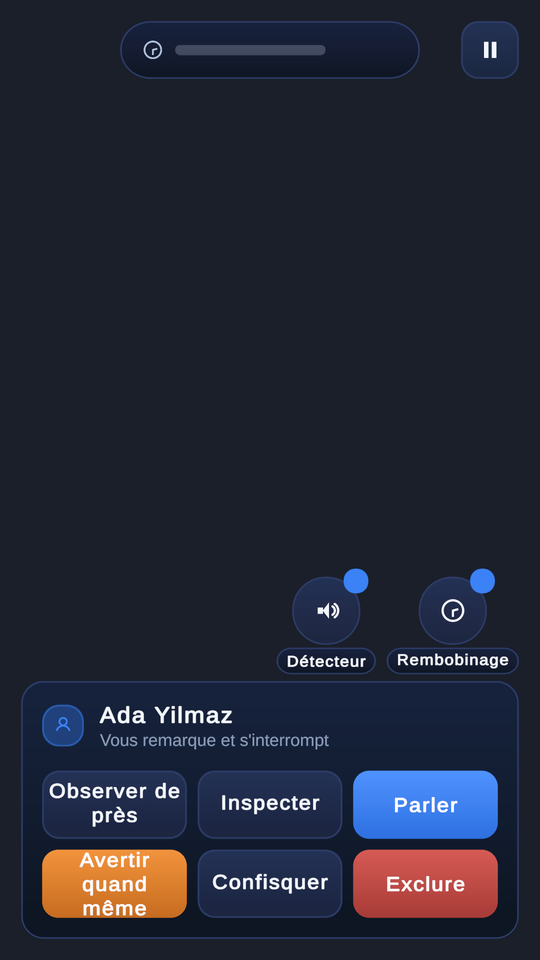
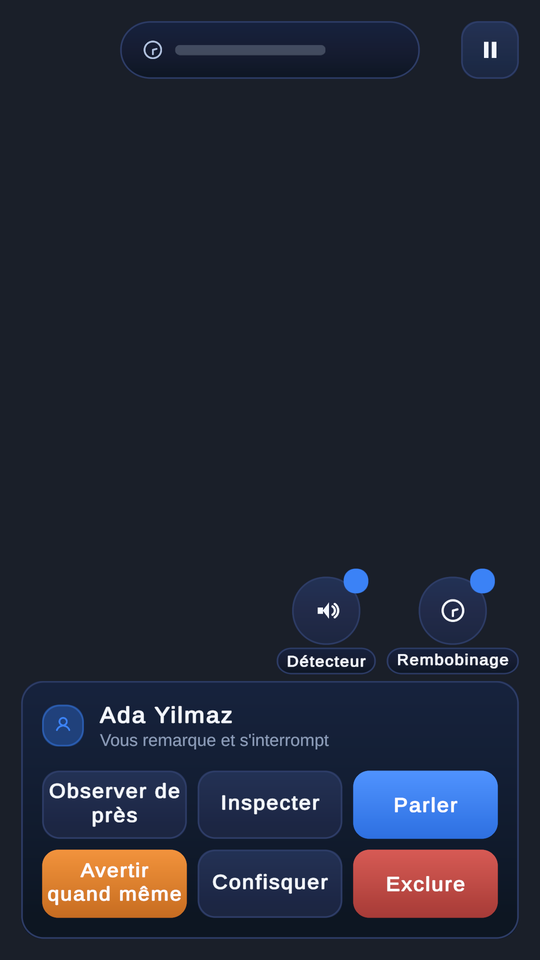
Localization: French Warn label on two lines, Turkish Settings and the language picker

Changed region(s): [[0.0889, 0.875, 0.3259, 0.9688]]

diff --git a/localization/index.html b/localization/index.html
@@ -171,9 +171,10 @@ td .alt { color: var(--muted); }
 
   <section id="screens">
     <div class="section-head">
-      <h2>Screens in Russian, French and Japanese</h2>
-      <p class="muted">The three languages that push the layout hardest: long Russian words, long French phrases and
-        Japanese script. Every word on these screens comes from the string tables.</p>
+      <h2>Screens in Russian, French, Japanese and Turkish</h2>
+      <p class="muted">Russian, French and Japanese push the layout hardest: long Russian words, long French phrases and
+        Japanese script. Turkish Settings shows its dotted and dotless i. Every word on these screens comes from the
+        string tables.</p>
     </div>
     <div class="group">
       <h3>Settings</h3>
@@ -186,6 +187,9 @@ td .alt { color: var(--muted); }
         <figure><img src="img/ja-settings.png" width="540" height="960" alt="Settings screen in Japanese: サウンド, 全体の音量, 効果音, 表示とヘルプ, テーマ, ダーク, ライト, 自動, 言語 日本語, 文字サイズ 標準, ヒント オン, 動きを減らす オフ">
           <figcaption><b>日本語.</b> 「自動」 in Japanese corner brackets. Kana and kanji come from the Noto Sans JP
             fallback.</figcaption></figure>
+        <figure><img src="img/tr-settings.png" width="540" height="960" alt="Settings screen in Turkish: Ayarlar, Ses, Genel ses düzeyi, Efektler, Görünüm ve yardım, Tema, Koyu, Açık, Otomatik, Dil Türkçe, Yazı boyutu Normal, İpuçları Açık, Hareketi azalt Kapalı">
+          <figcaption><b>Türkçe.</b> Dotted and dotless i side by side in İpuçları, Kapalı and Açık, all drawn from the
+            dynamic Liberation Sans fallback font.</figcaption></figure>
       </div>
     </div>
     <div class="group">
@@ -221,15 +225,17 @@ td .alt { color: var(--muted); }
     <div class="section-head">
       <h2>Exam action rows</h2>
       <p class="muted">The six actions under a selected student. A row goes compact, dropping its icons and letting
-        labels wrap, only when one of its labels cannot fit at the minimum text size. Rows that fit are unchanged.</p>
+        labels wrap, only when one of its labels cannot fit at the minimum text size. Rows that fit are unchanged. A
+        compact label always takes at most two lines inside the button's padding; the fit test checks that in all seven
+        languages.</p>
     </div>
     <div class="figs">
       <figure><img src="img/ru-hud.png" width="540" height="960" alt="Exam HUD in Russian with the student panel for Ada Yilmaz: Присмотреться, Осмотреть, Поговорить, Всё равно предупредить on two lines, Изъять, Удалить">
         <figcaption><b>Русский.</b> The compact rows, with "Всё равно предупредить" (Warn anyway) on two lines. The
           Russian Warn label never fits on one line at the minimum size.</figcaption></figure>
-      <figure><img src="img/fr-hud.png" width="540" height="960" alt="Exam HUD in French: Observer de près on two lines, Inspecter, Parler, Avertir quand même on three lines, Confisquer, Exclure">
-        <figcaption><b>Français.</b> "Observer de près" wraps to two lines. "Avertir quand même" takes three lines and
-          fills its button from top to bottom, the tightest label in the set.</figcaption></figure>
+      <figure><img src="img/fr-hud.png" width="540" height="960" alt="Exam HUD in French: Observer de près on two lines, Inspecter, Parler, Avertir quand même on two lines, Confisquer, Exclure">
+        <figcaption><b>Français.</b> "Observer de près" and "Avertir quand même" (Warn anyway) each wrap to two lines,
+          inside the button's padding.</figcaption></figure>
       <figure><img src="img/ja-hud.png" width="540" height="960" alt="Exam HUD in Japanese: よく観察する, 調べる, 話しかける, それでも注意する on two lines, 没収する, 退室させる">
         <figcaption><b>日本語.</b> それでも注意する wraps to a second line. The other five labels fit on one.</figcaption></figure>
     </div>
@@ -260,15 +266,22 @@ td .alt { color: var(--muted); }
     <div class="section-head">
       <h2>The language picker</h2>
     </div>
-    <ul class="notes">
-      <li><b>One row, opened in place.</b> The current language shows on the Language row in Settings, as in the
-        screenshots above. Tapping it opens the list under it.</li>
-      <li><b>Each language under its own name.</b> English, Türkçe, Français, Español, Português (Brasil), Русский, 日本語.
-        A player who cannot read the current language can still find their own.</li>
-      <li><b>Live switch.</b> Picking a language rebuilds the UI at once, with no restart.</li>
-      <li><b>First launch</b> follows the device language when it is one of the seven, and English otherwise. Automated
-        tests always start in English.</li>
-    </ul>
+    <div class="lead-row">
+      <figure>
+        <img src="img/en-picker.png" width="540" height="960" alt="Settings in English with the Language row open: English (checked), Türkçe, Français, Español, Português (Brasil), Русский, 日本語">
+        <figcaption><b>The picker, opened from English.</b> Every language name renders in its own script: Türkçe,
+          Русский, 日本語.</figcaption>
+      </figure>
+      <ul class="notes">
+        <li><b>One row, opened in place.</b> The current language shows on the Language row in Settings, as in the
+          screenshots above. Tapping it opens the list under it.</li>
+        <li><b>Each language under its own name.</b> English, Türkçe, Français, Español, Português (Brasil), Русский, 日本語.
+          A player who cannot read the current language can still find their own.</li>
+        <li><b>Live switch.</b> Picking a language rebuilds the UI at once, with no restart.</li>
+        <li><b>First launch</b> follows the device language when it is one of the seven, and English otherwise. Automated
+          tests always start in English.</li>
+      </ul>
+    </div>
   </section>
 
   <section id="career-language">
